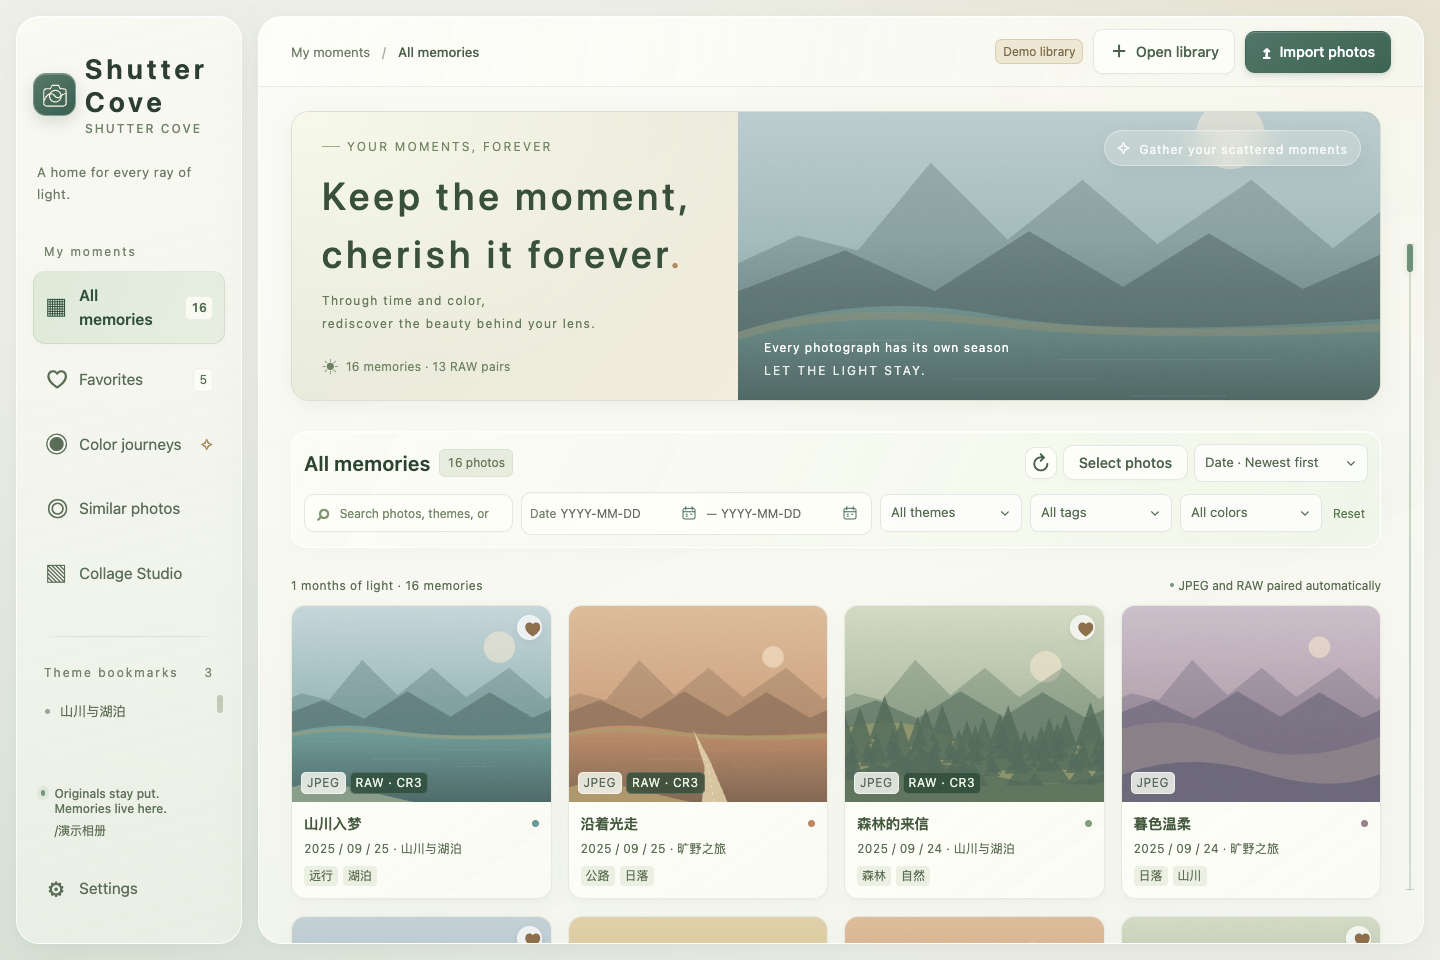
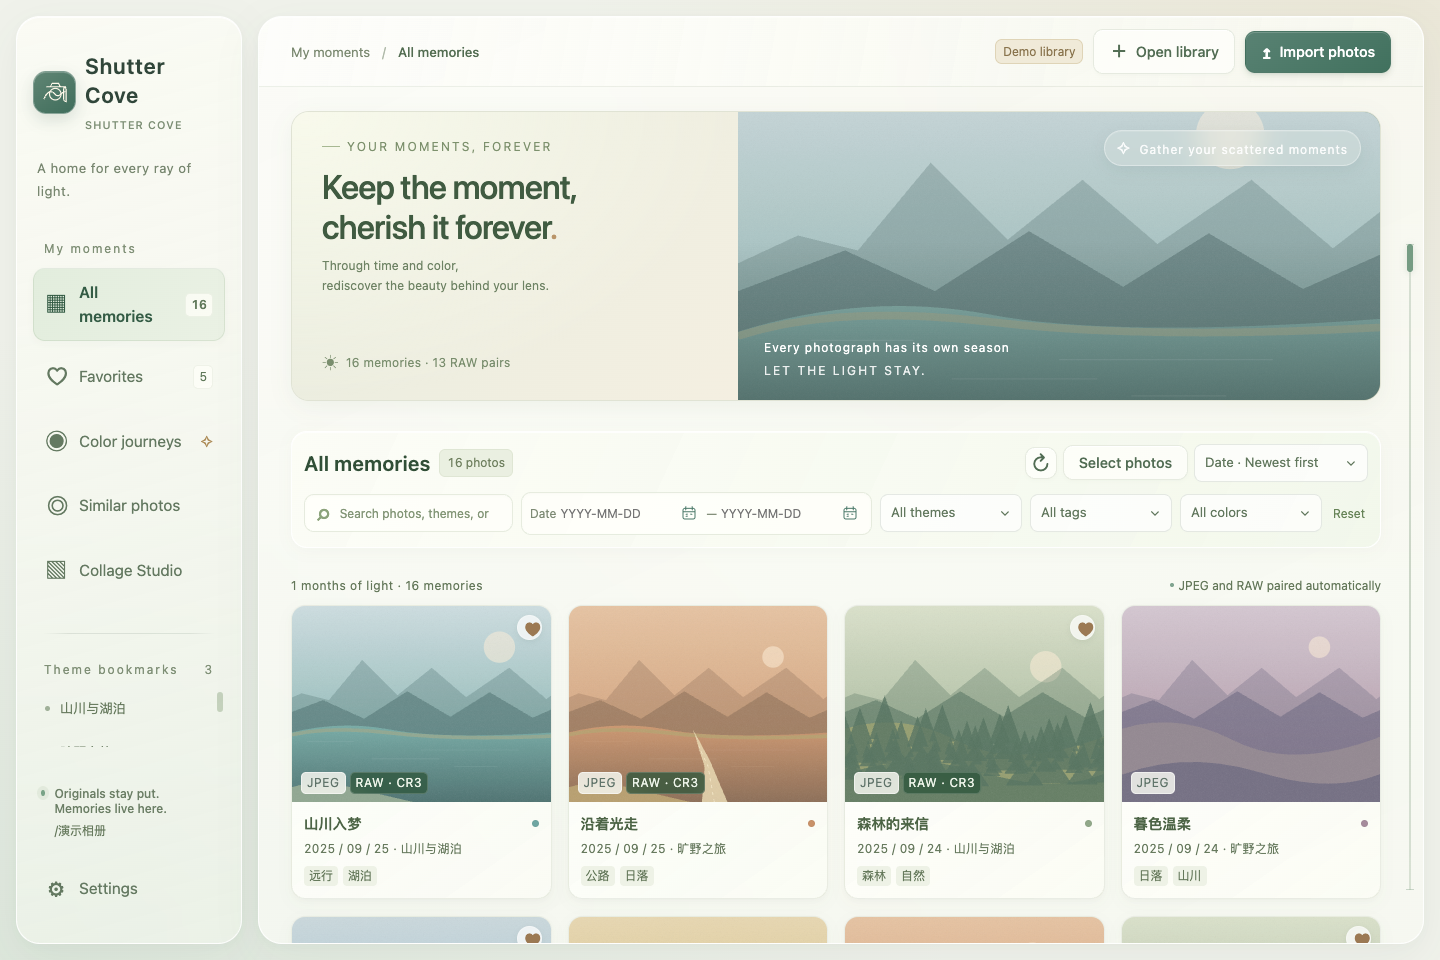
Refresh public gallery previews and record local package acceptance

diff --git a/docs/validation.md b/docs/validation.md
@@ -406,3 +406,5 @@ The v1.3.0 and v1.3.1 CI candidates were withheld; neither was published as a re
 The v1.3.1 local Mac arm64 production package passed the complete packaged runner (37 launches and 2,055 independent assertions), including disk exports, preserved synthetic originals, recovery journals, settings persistence, native fullscreen, motion and layout in both window sizes, and reduced motion. This local result did not supersede the failed remote platform checks. v1.3.3 cross-platform and official-install acceptance will be recorded after completion.
 
 The v1.3.2 build was cancelled before publication after visual review exposed overlapping English hero copy at 150% font size. Content-driven hero height, in-flow statistics, and compact English typography resolve this in the v1.3.3 candidate; the updated screenshot was visually inspected.
+
+The final local Mac arm64 v1.3.3 package passed all 37 launches and 2,121 independent assertions (2,115 per-launch checks plus six independent language-profile checks). Native strict signature verification passed; the package privacy audit checked 1,427 files, including 816 ASAR entries, and verified 51 first-party files against source with no findings. The temporary expanded local build was removed after validation.
